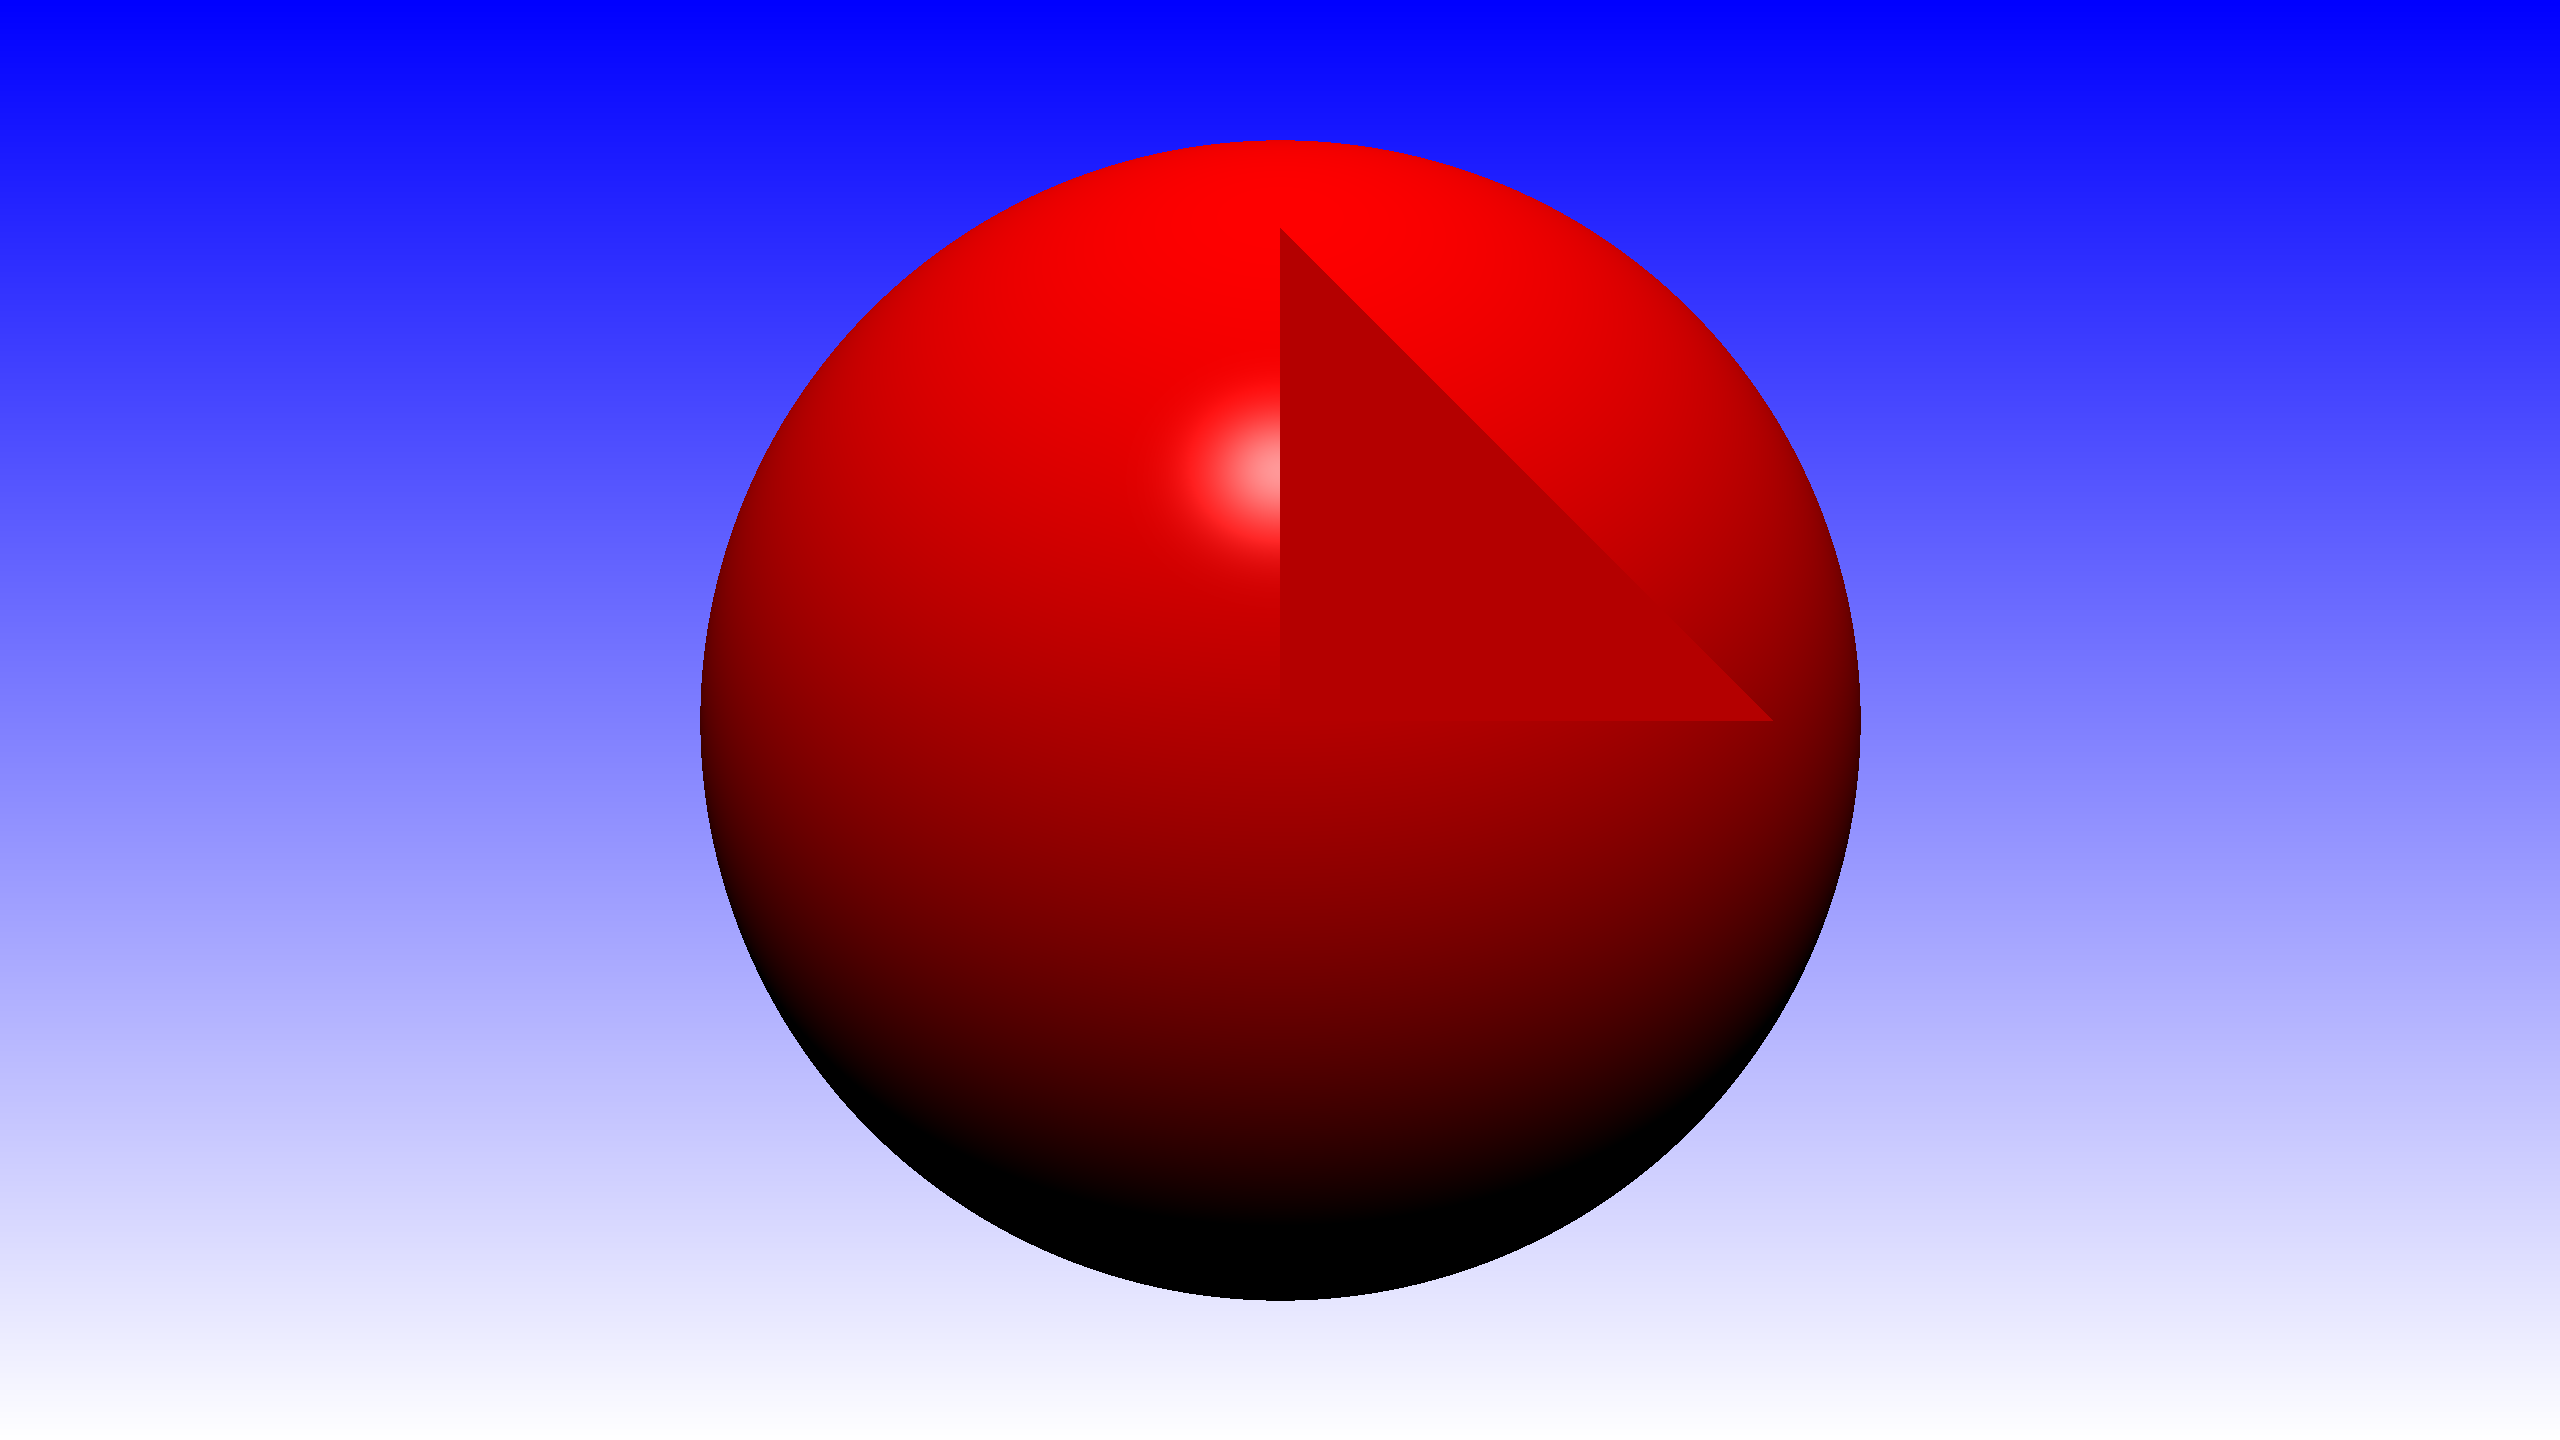
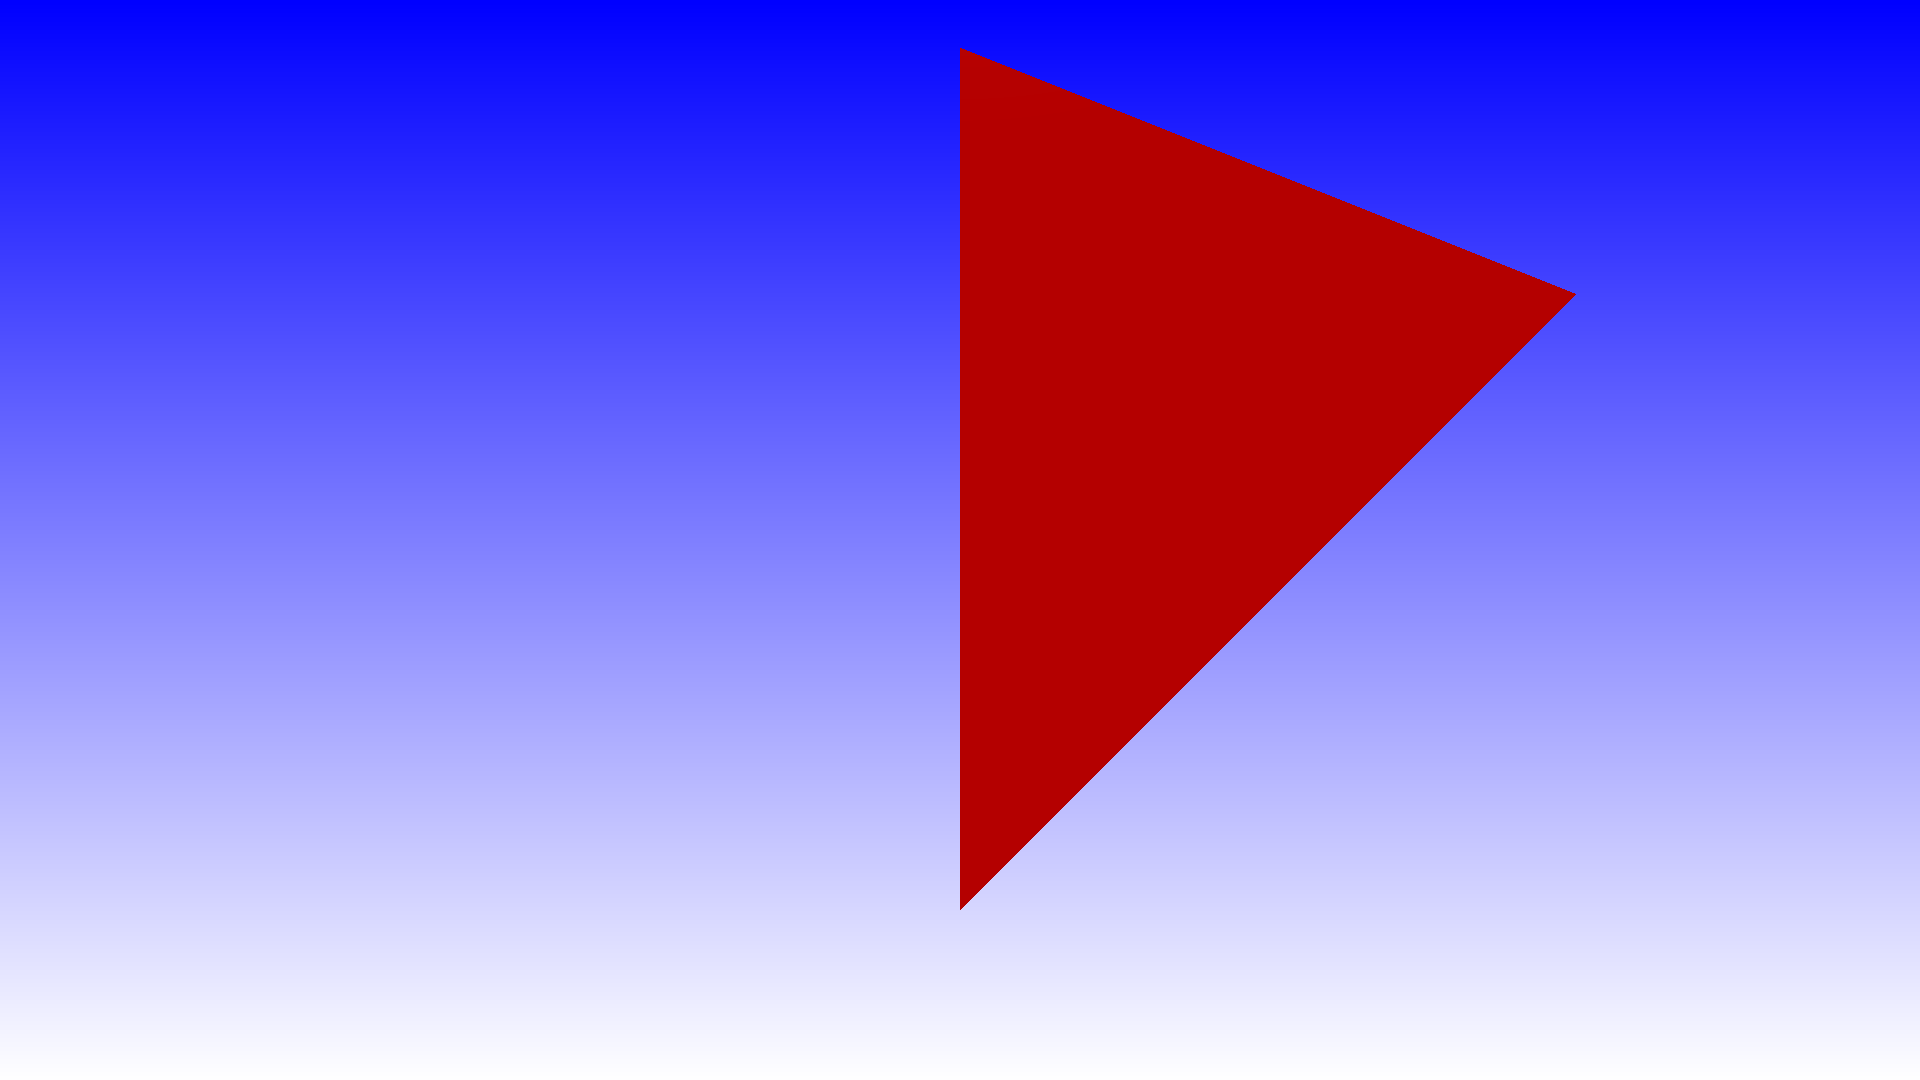
Fixed bugs in triangle rendering. Known bugs include triangle dissapearing when normal is not aligned with camera view.

Changed region(s): [[0.25, 0.0306, 0.8125, 0.9167]]

diff --git a/Ray Tracer/Ray Tracer.cpp b/Ray Tracer/Ray Tracer.cpp
@@ -3,8 +3,8 @@
 #include "Ray Tracer.h"
 
 string filename = "output.png";
-int width = 2560;
-int height = 1440;
+int width = 1920;
+int height = 1080;
 
 Camera camera;
 
@@ -32,6 +32,12 @@ int main()
 
     triangle->material.color = Vec3(255, 0, 0) / 255;
 
+    triangle->A = Vec3(0, -0.3, -1);
+
+    triangle->B = Vec3(0.5, 0.2, -1);
+
+    triangle->C = Vec3(0, 0.4, -1);
+
     objects.push_back(triangle);
 
     
@@ -41,7 +47,7 @@ int main()
 
     sphere->material.color = Vec3(255, 0, 0) / 255;
 
-    objects.push_back(sphere);
+    //objects.push_back(sphere);
 
     
 
@@ -108,16 +114,15 @@ Vec3 GetColor(const float i, const float j)
 
     for (Object* object : objects) {
 
+
         if (object->hit(ray, normal)) {
+            
+
             Material material = object->material;
 
             //Calculate diffuse
-            float brightness = 0;
             float dotProduct = dot(-1 * sun.direction, normal.direction);
-            if (dotProduct > 0)
-            {
-                brightness = dotProduct;
-            }
+            float brightness = max(0.0f, dotProduct);
 
             //Calculate specular
             Vec3 V = ray.direction.normalize();

diff --git a/Ray Tracer/Object.cpp b/Ray Tracer/Object.cpp
@@ -36,29 +36,15 @@ bool Triangle::hit(const Ray& ray, Ray& normal) const {
 
 	Vec3 P = ray.origin + t * ray.direction;
 
-	Vec3 PA = P - A;
+	float TotalArea = area(B - A, C - A);
 
-	Vec3 BA = B - A;
+	float u = area(B - P, C - P) / TotalArea;
 
-	Vec3 CA = C - A;
+	float v = area(A - P, C - P) / TotalArea;
 
-	float u = dot(PA, BA) / dot(BA, BA);
+	float w = area(A - P, B - P) / TotalArea;
 
-	float v = dot(PA, CA) / dot(CA, CA);
-
-	if (u < 0 || v < 0 || u + v > 1) return false;
-
-
-	//|a||b|cos(theta) = dot(a, b)
-
-
-
-	// proj = |a|cos(theta) * b.normalize()  = comp * b.normalize()
-	//comp = |a|cos(theta) = dot(a, b) / |b|
-
-	// proj = u * b
-	// u = comp / |b| = dot(a, b) / |b|^2 = dot(a, b) / dot(b, b)
-	// a = 
+	if (u < 0 || v < 0 || w < 0 || u + v + w > 1.001 || u + v + w < 0.999) return false;
 
 	normal.origin = P;
 	normal.direction = N;

diff --git a/Ray Tracer/Object.h b/Ray Tracer/Object.h
@@ -39,7 +39,7 @@ public:
 class Triangle : public Object 
 {
 public:
-	Triangle() : Triangle(Vec3(0, 0, -1), Vec3(0.3, 0, -1), Vec3(0, 0.3, -1)) {}
+	Triangle() : Triangle(Vec3(0, 0, -1), Vec3(1, 0, -1), Vec3(0, 1, -1)) {}
 
 	Triangle(Vec3 a, Vec3 b, Vec3 c) : A(a), B(b), C(c) {}
 

diff --git a/Ray Tracer/Vec3.cpp b/Ray Tracer/Vec3.cpp
@@ -11,3 +11,7 @@ Vec3 cross(const Vec3& first, const Vec3& second)
 
 	return Vec3(x, y, z);
 }
+
+float area(const Vec3& first, const Vec3& second) {
+	return cross(first, second).length();
+}

diff --git a/Ray Tracer/Vec3.h b/Ray Tracer/Vec3.h
@@ -57,6 +57,8 @@ float dot(const Vec3& first, const Vec3& second);
 
 Vec3 cross(const Vec3& first, const Vec3& second);
 
+float area(const Vec3& AB, const Vec3& AC);
+
 
 class Ray 
 {
